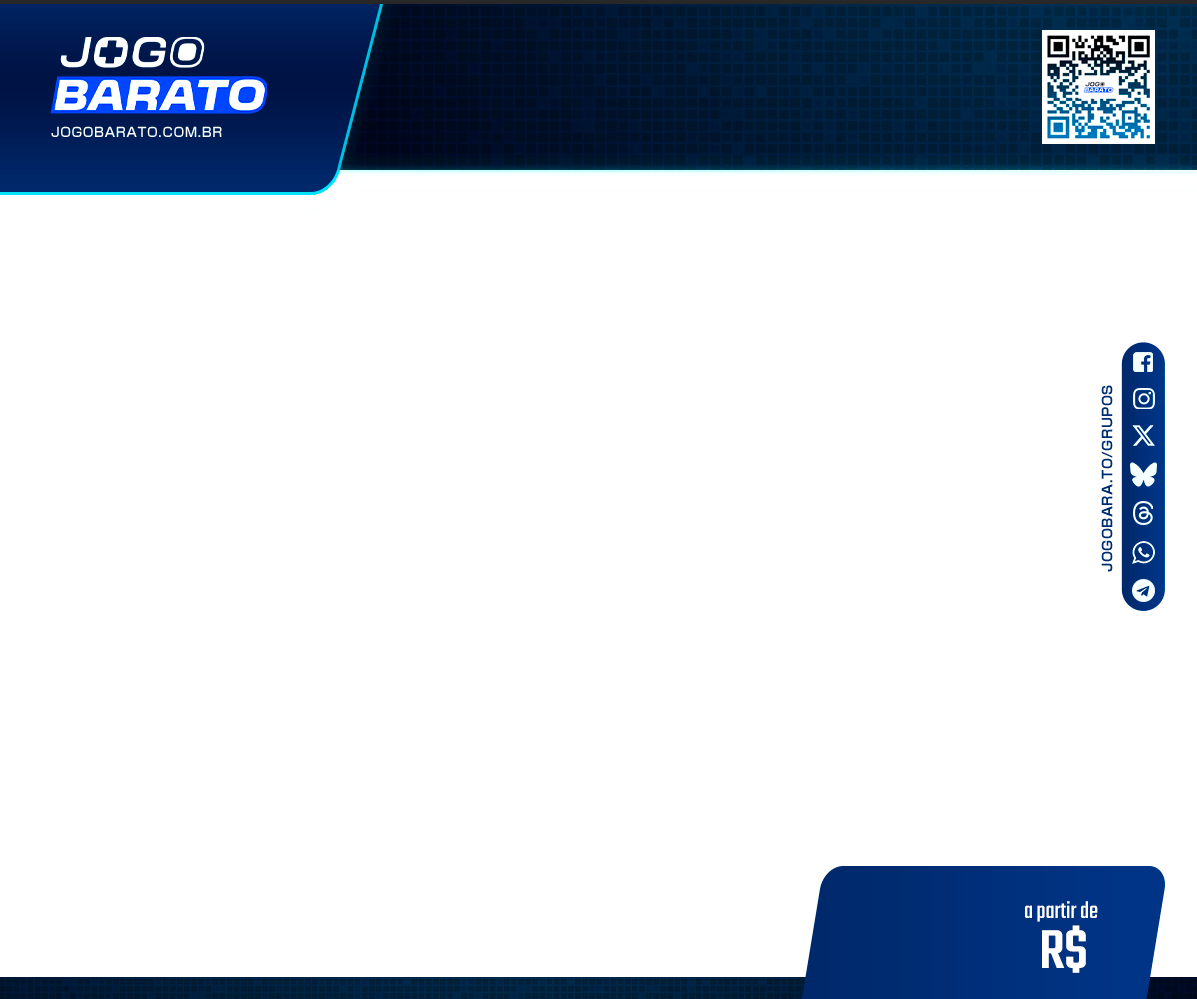
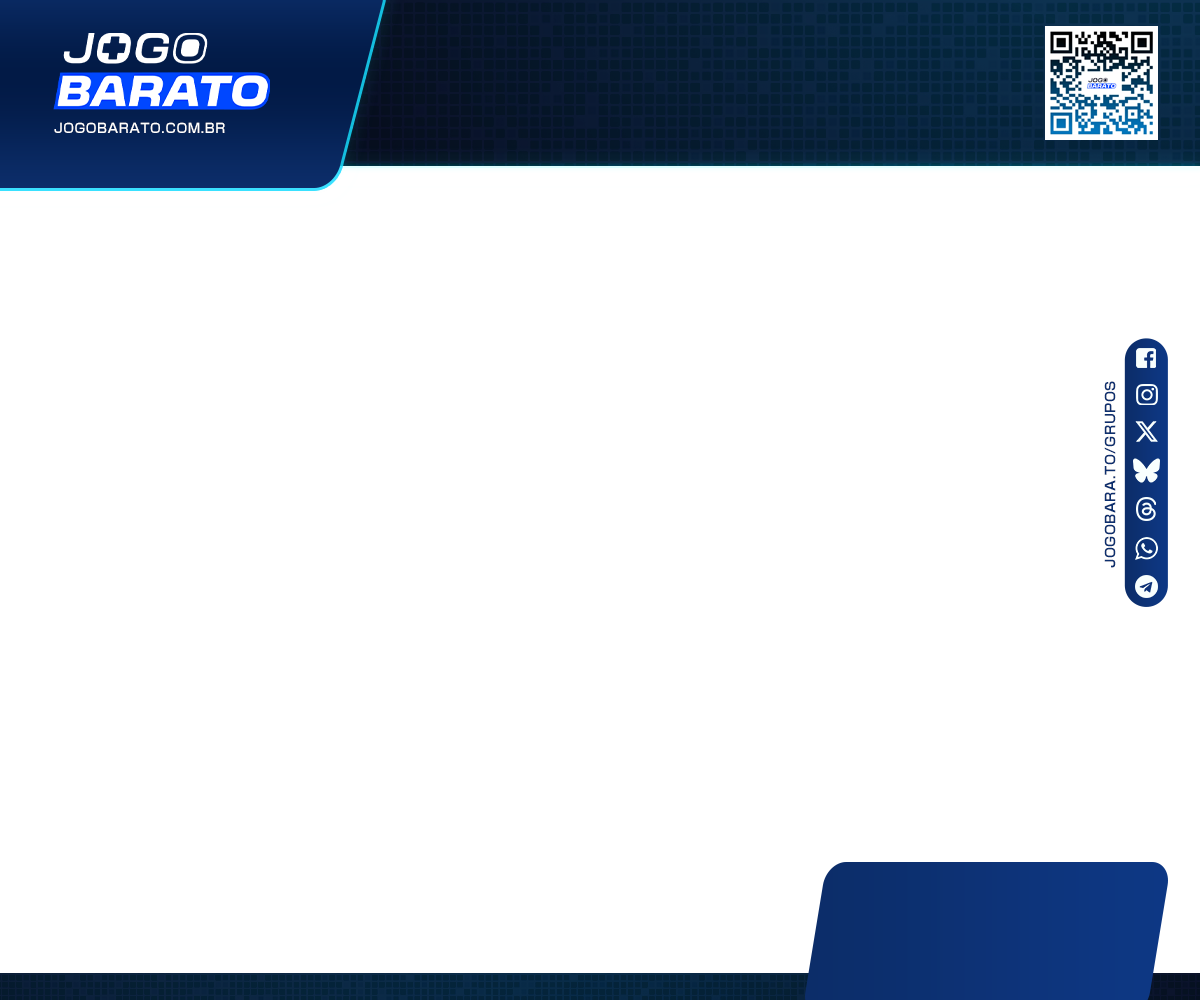
Arte do Jogo Barato com o fundo original e preço sem cupom nem preço antigo
- Fundo trocado pelo original de 1200x1000 (o mesmo do conversor em HTML do
  Jogo Barato). O antigo era uma captura com "a partir de R$" escrito, 3 a
  4 px fora do lugar e outro tom de azul; a caixa do preço não precisa mais
  ser redesenhada por cima. Título, capa e preço continuam nas medidas do
  Photoshop.
- Preço da arte: primeiro valor que é mesmo o preço. Pula cupom, cashback e
  frete (filtros do conversor em HTML), o valor da parcela e o preço antigo
  de "De ... por ...". Sai sempre com centavos.

Claude-Session: https://claude.ai/code/session_01EcQNSswHSPu1ChFXwomxVV

diff --git a/bot-conversor-jogobarato/lib/arte.js b/bot-conversor-jogobarato/lib/arte.js
@@ -29,11 +29,44 @@ export function dadosDaOferta(texto) {
   }
   titulo = titulo.replace(/^[^\p{L}\p{N}]+/u, '').replace(/\s{2,}/g, ' ').trim();
   if (/^(?:https?:\/\/|www\.)\S+$/i.test(titulo)) titulo = '';
-  // Padrão do Jogo Barato: "à vista" ou "parcelado", conforme a linha do preço
-  const linhaPreco = linhas.find(l => /R\$\s?\d/.test(l)) || '';
-  const p = linhaPreco.match(/R\$\s?(\d{1,3}(?:\.\d{3})*(?:,\d{2})?)/);
-  const parcelado = /\d+\s*x\b|parcelad|em até/i.test(linhaPreco) && !/à vista|a vista|pix|boleto/i.test(linhaPreco);
-  return { titulo, loja, preco: p ? p[1] : '', condicao: parcelado ? 'parcelado' : 'à vista' };
+  const { preco, condicao } = precoPrincipal(texto);
+  return { titulo, loja, preco, condicao };
+}
+
+// Preço da arte: o primeiro valor em R$ que é mesmo o preço do produto. Pula
+// cupom, cashback e frete (filtros do conversor em HTML do Jogo Barato), o valor
+// da parcela ("10x de R$ 29,99") e o preço antigo ("De R$ 299 por R$ 149").
+// "à vista" ou "parcelado" sai do trecho em volta desse valor.
+const VALOR = /R\$\s?(\d{1,3}(?:\.\d{3})+|\d+)(?:,(\d{1,2}))?/g;
+export function precoPrincipal(texto) {
+  const valores = [...texto.matchAll(VALOR)].map(m => {
+    const iniLinha = texto.lastIndexOf('\n', m.index - 1) + 1;
+    return {
+      m, iniLinha,
+      fimLinha: (texto.indexOf('\n', m.index) + 1 || texto.length + 1) - 1,
+      antes: texto.slice(Math.max(iniLinha, m.index - 28), m.index).toLowerCase(),
+      depois: texto.slice(m.index + m[0].length, m.index + m[0].length + 16).toLowerCase()
+    };
+  });
+  const temPor = i => valores.slice(i + 1).some(v => /\bpor:?\s*[~*_]*$/.test(v.antes));
+  const naoEPreco = (v, i) =>
+    /(cupom de|cashback|frete|acima de|compras|desconto de|economi|cr[eé]dito)/.test(v.antes)
+    || /^\s*(off|de desconto|de volta|cashback)/.test(v.depois)
+    || /\d+\s*x\s*(de\s*)?$/.test(v.antes)
+    || /~+\s*$/.test(v.antes)
+    || (/(?:^|[^\p{L}])de:?\s*[*_]*$/u.test(v.antes) && !/partir de:?\s*[*_]*$/.test(v.antes) && temPor(i));
+  const i = Math.max(0, valores.findIndex((v, j) => !naoEPreco(v, j)));
+  const v = valores[i];
+  if (!v) return { preco: '', condicao: 'à vista' };
+  // Trecho do valor: da linha dele, entre o valor anterior e o próximo
+  const ant = valores[i - 1], prox = valores[i + 1];
+  const ini = ant && ant.fimLinha === v.fimLinha ? ant.m.index + ant.m[0].length : v.iniLinha;
+  const fim = prox && prox.iniLinha === v.iniLinha ? prox.m.index : v.fimLinha;
+  const trecho = texto.slice(ini, fim);
+  const parcelado = /\d+\s*x\b|parcelad|em até/i.test(trecho) && !/à vista|a vista|pix|boleto/i.test(trecho);
+  // Sempre com centavos e ponto no milhar: "R$ 1299" vira "1.299,00"
+  const reais = v.m[1].replace(/\./g, '').replace(/\B(?=(\d{3})+$)/g, '.');
+  return { preco: reais + ',' + (v.m[2] || '').padEnd(2, '0'), condicao: parcelado ? 'parcelado' : 'à vista' };
 }
 
 // ---------- capa do jogo ----------
@@ -142,7 +175,9 @@ function tamanhoTitulo(t) {
   return 19;
 }
 
-const LARGURA_JB = 1197;
+// Fundo original do modelo (o mesmo do conversor em HTML do Jogo Barato), com a
+// caixa do preço limpa. Título, capa e preço estão nas medidas da arte do Photoshop.
+const LARGURA_JB = 1200;
 export const PRECO_JB = {
   apartir: { top: 878, size: 26, espaco: -1, direita: 1131 },
   preco: { top: 903, size: 60, direita: 1133 },
@@ -150,7 +185,7 @@ export const PRECO_JB = {
 };
 
 const JOGO_BARATO = {
-  largura: LARGURA_JB, altura: 999, fundo: png64('fundo-arte.png'),
+  largura: LARGURA_JB, altura: 1000, fundo: png64('fundo-arte.png'),
   camadas({ titulo, preco, condicao, capa, tipo }) {
     const c = [h('div', {
       position: 'absolute', left: 33, top: 212, width: 1040,
@@ -159,13 +194,7 @@ const JOGO_BARATO = {
     // Capa em pé ocupa a altura toda; produto deitado (console, bundle) usa a largura
     // toda e fica um pouco abaixo do meio, como no Photoshop
     if (tipo) c.push(capaImg(capa, tipo, { left: 130, top: 343, width: 940, height: 527, vertical: 0.66 }));
-    // Caixa do preço: redesenhada por cima da do fundo, que já tem "R$" escrito
     if (preco) {
-      c.push(h('div', {
-        position: 'absolute', left: 806, top: 866, width: 356, height: 150,
-        background: 'linear-gradient(90deg, #00296c, #003486)', borderRadius: 22,
-        transform: 'skewX(-9deg)'
-      }, []));
       // Medidas copiadas da arte do Photoshop (texto alinhado à direita)
       const p = PRECO_JB;
       const linha = (txt, { top, size, espaco = 0, direita }) => h('div', {

diff --git a/bot-conversor-jogobarato/test/conversor.test.js b/bot-conversor-jogobarato/test/conversor.test.js
@@ -142,3 +142,28 @@ test('lê o tamanho de PNG e JPEG', async () => {
   const { readFileSync } = await import('node:fs');
   assert.deepEqual(tamanhoImagem(readFileSync(new URL('../assets/fundo-jbindica.png', import.meta.url))), { w: 1200, h: 1000 });
 });
+
+test('preço da arte pula preço antigo, cupom, frete e parcela', async () => {
+  const { precoPrincipal } = await import('../lib/arte.js');
+  const casos = [
+    ['• R$ 233,92 no pix\n• R$ 269,91 em até 6x', '233,92', 'à vista'],
+    ['De R$ 299 por R$ 149', '149,00', 'à vista'],
+    ['De: ~R$ 299,90~\nPor: R$ 149,90 no pix', '149,90', 'à vista'],
+    ['Cupom de R$ 20 OFF: JOGO20\nR$ 179,90', '179,90', 'à vista'],
+    ['Cupom: JOGO20 (R$ 20 OFF)\nR$ 179,90 em até 3x', '179,90', 'parcelado'],
+    ['R$ 299,90 ou 10x de R$ 29,99', '299,90', 'parcelado'],
+    ['R$ 249,00\nFrete grátis acima de R$ 79', '249,00', 'à vista'],
+    ['R$ 99,90 em 3x ou R$ 89,90 no pix', '99,90', 'parcelado'],
+    ['A partir de R$ 1299', '1.299,00', 'à vista'],
+    ['sem preço', '', 'à vista']
+  ];
+  for (const [texto, preco, condicao] of casos) {
+    assert.deepEqual(precoPrincipal('Jogo\n' + texto), { preco, condicao }, texto);
+  }
+});
+
+test('fundo do Jogo Barato é o original de 1200x1000', async () => {
+  const { tamanhoImagem } = await import('../lib/arte.js');
+  const { readFileSync } = await import('node:fs');
+  assert.deepEqual(tamanhoImagem(readFileSync(new URL('../assets/fundo-arte.png', import.meta.url))), { w: 1200, h: 1000 });
+});

diff --git a/bot-conversor-jogobarato/README.md b/bot-conversor-jogobarato/README.md
@@ -10,7 +10,7 @@ Bot do Telegram que faz o mesmo que o conversor em HTML: pega uma oferta, conver
 4. Pra trocar a capa, responda à arte com outra foto. Se a foto for pequena, o bot avisa.
 5. Sem foto, o bot tenta pegar a capa pela página do link. Se não conseguir, responde só com o texto e pede a foto.
 
-A arte usa o fundo `assets/fundo-arte.png`, título em Saira, preço em Teko Medium. O primeiro preço da oferta define o texto embaixo: "no pix"/"à vista" vira **à vista**, "em até 6x" vira **parcelado**.
+A arte usa o fundo original `assets/fundo-arte.png` (1200x1000, o mesmo do conversor em HTML do Jogo Barato), título em Saira, preço em Teko Medium. O preço é o primeiro valor da oferta que é mesmo preço: pula cupom, cashback, frete, o valor da parcela ("10x de R$ 29,99") e o preço antigo ("De R$ 299 por R$ 149"), e sai sempre com centavos. O trecho desse valor define o texto embaixo: "no pix"/"à vista" vira **à vista**, "em até 6x" vira **parcelado**.
 
 **Encurtador:** com `YOURLS_SIGNATURE` configurado, os links de loja (Amazon, Mercado Livre...) viram links `jogobara.to` no YOURLS do Jogo Barato. Links que já são jogobara.to, Telegram ou WhatsApp ficam como estão. Pegue o token em YOURLS > **Tools** > *Secure passwordless API call* (o "signature token").
 
